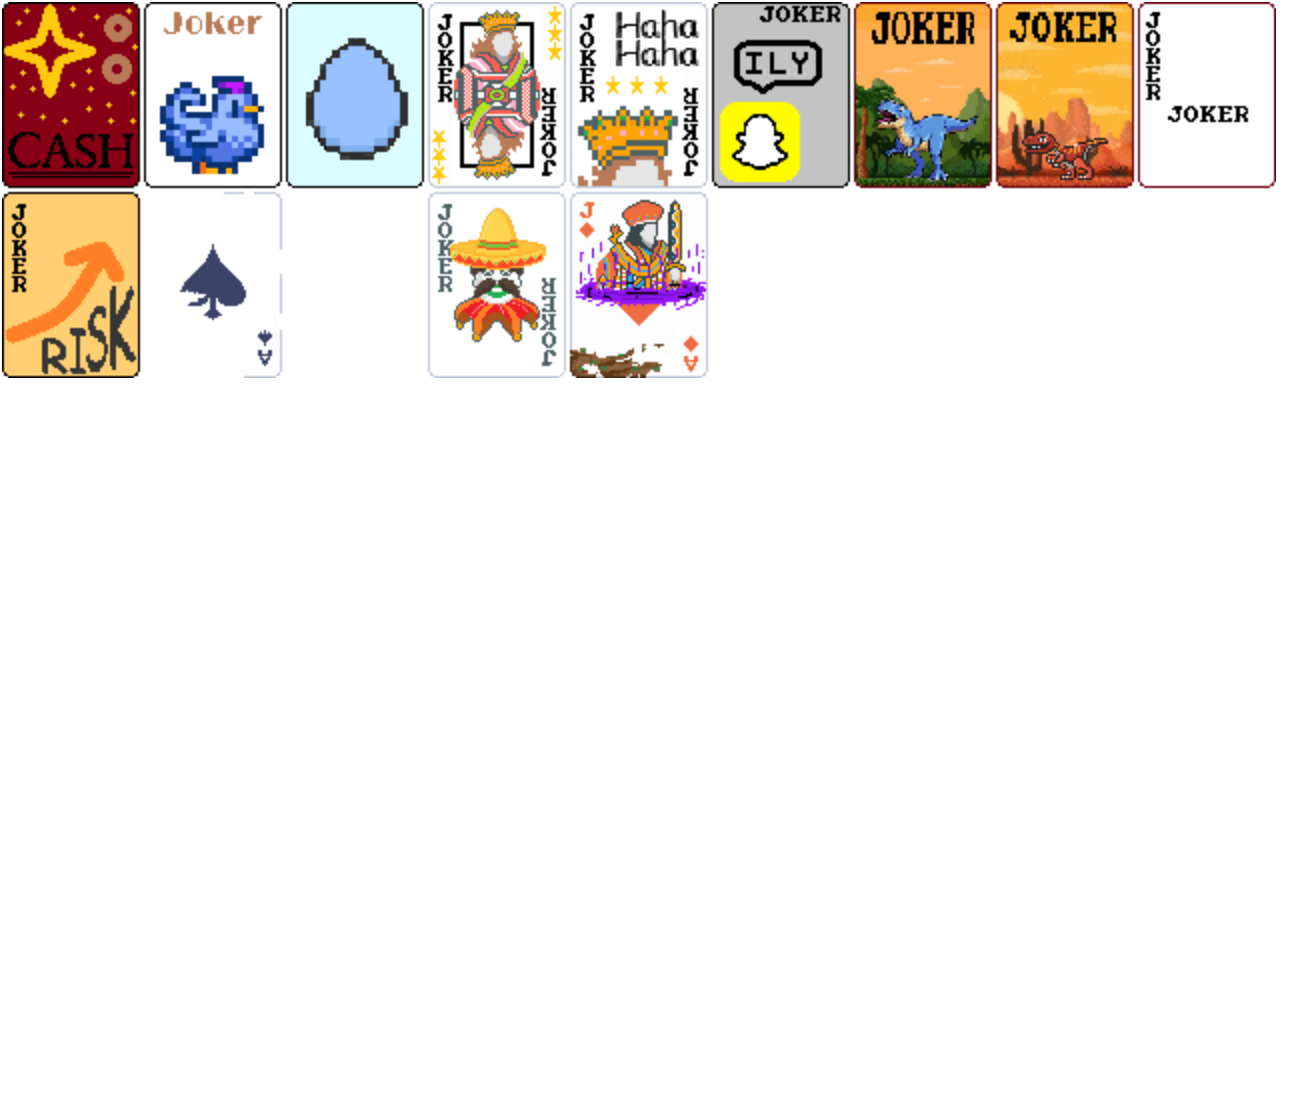
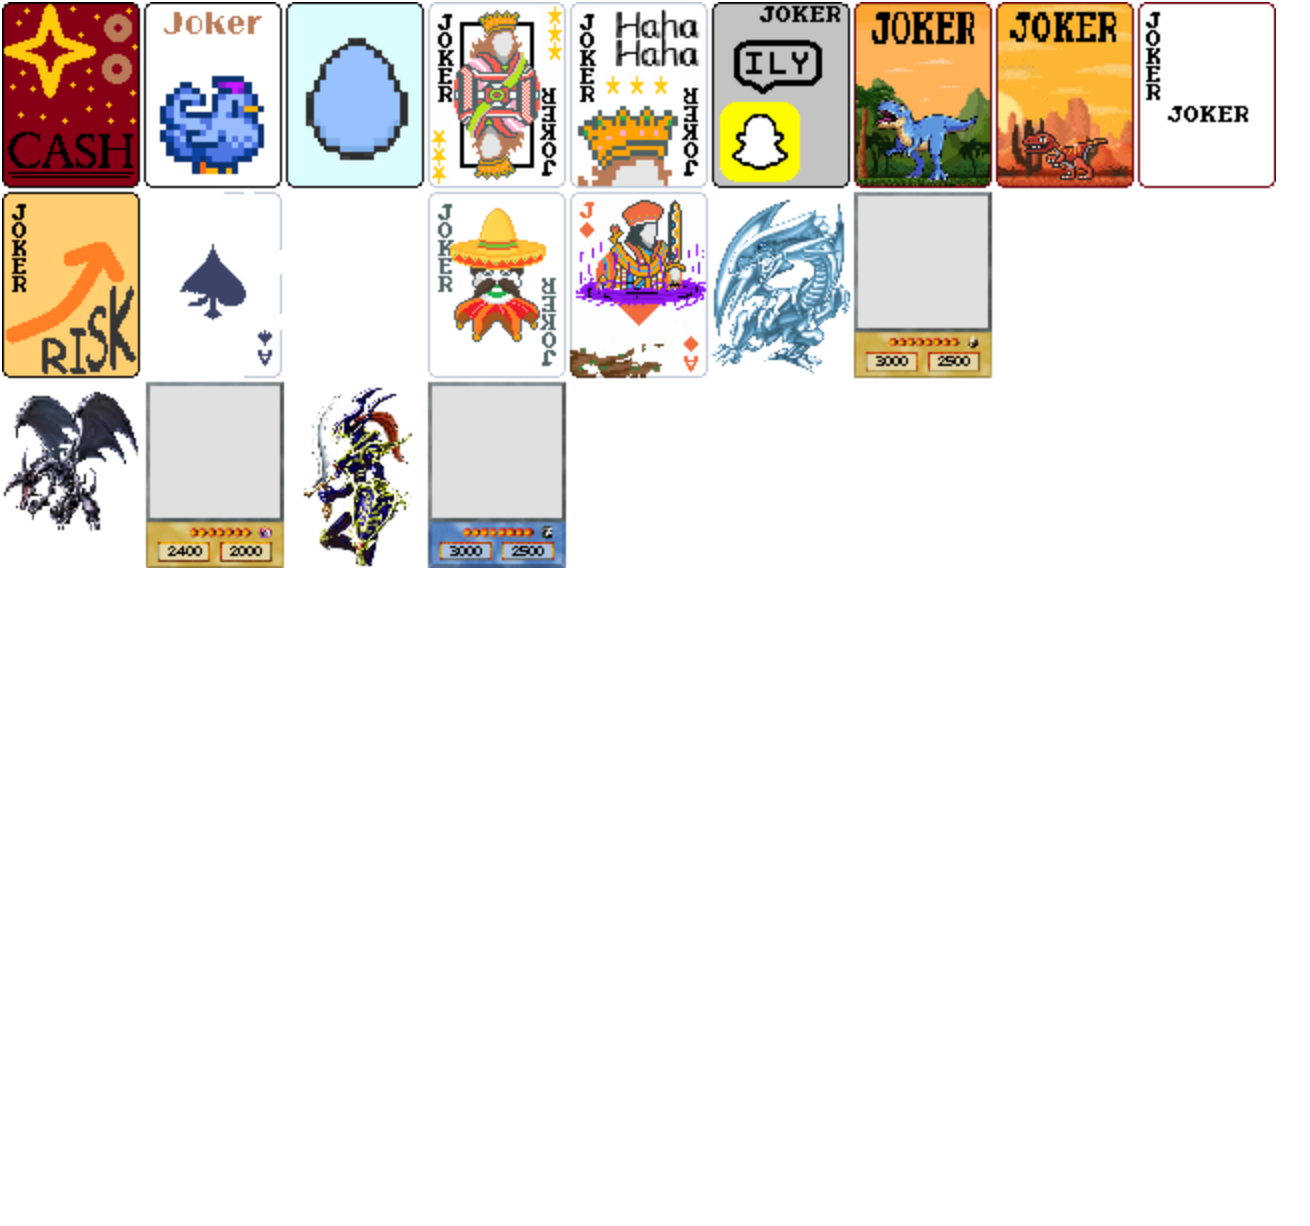
5 new Joker + new mechanic in the mod

Changed region(s): [[0.0, 0.0, 0.9831, 0.4662]]

diff --git a/README.md b/README.md
@@ -27,6 +27,9 @@ Just download the zip file, extract it and place it in your Mod folder.
 - Pteranodon : If score hand is a 5, destroy it for 2$ and a Planet
 - Pablo : Each other round, create a Food card
 - Jack Mutator : Each 4 round, modify the rank of a random card to Jack
+- Blue-Eyes White Dragon : +10 Mult for each Club and X2.5 
+- Red-Eyes Black Dragon : *No effect right now*
+- Black Luster Soldier : +15 Mult for each card played and X1.5 Mult for each 9 played
 
 *Some Joker has secret interaction with other Jokers*
 
